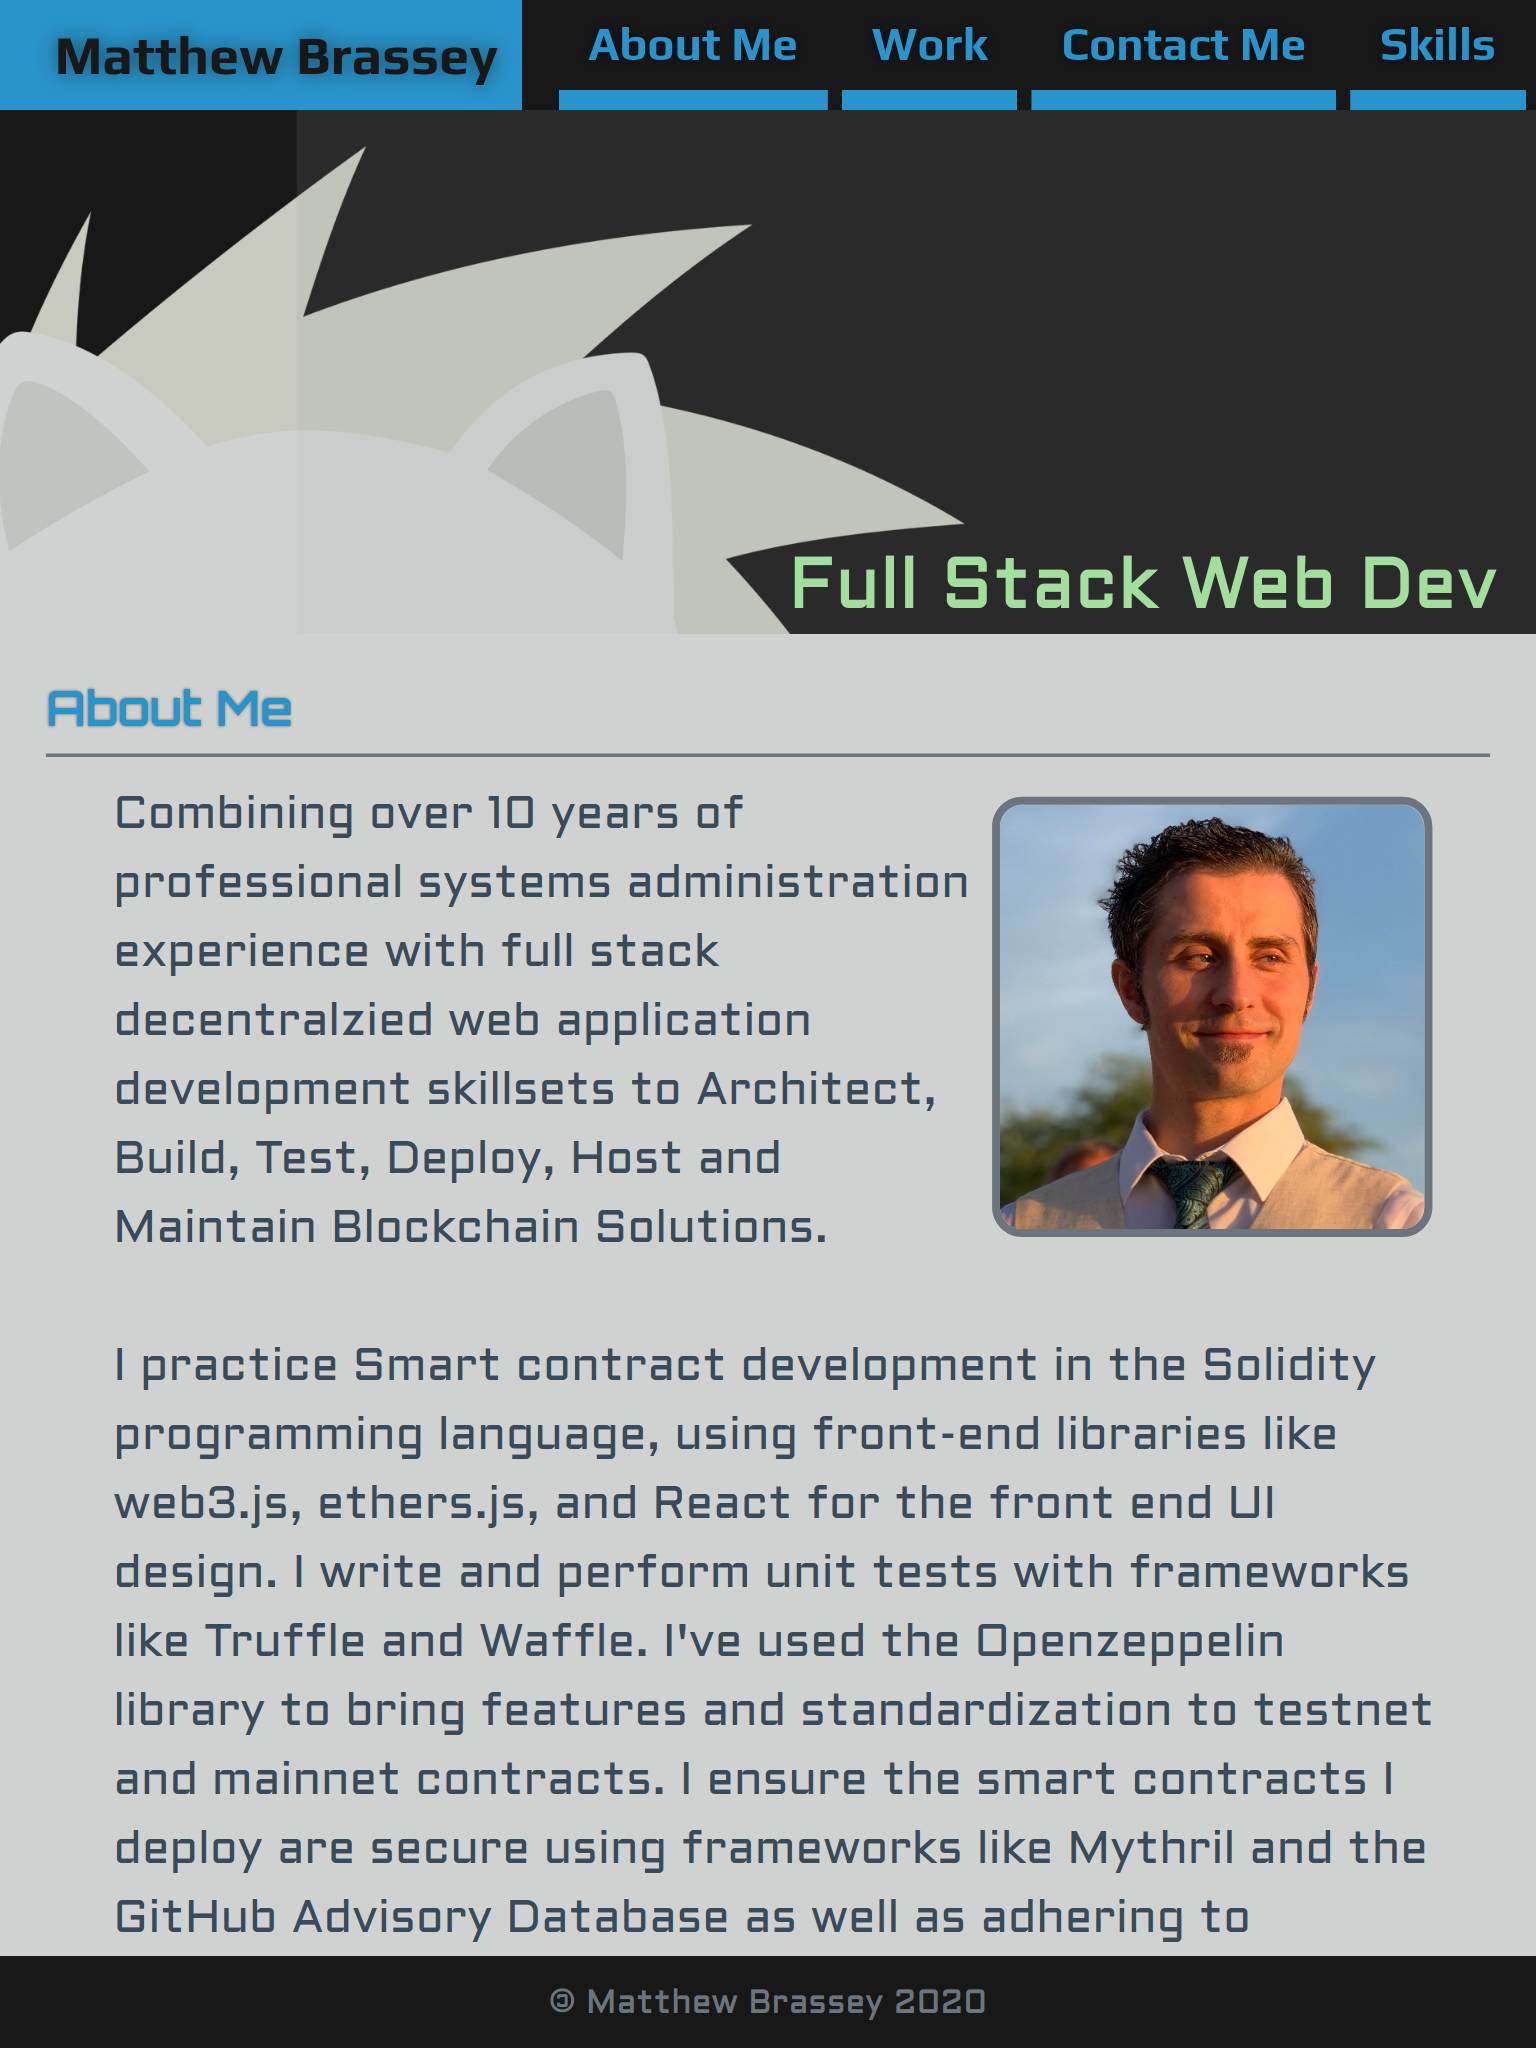
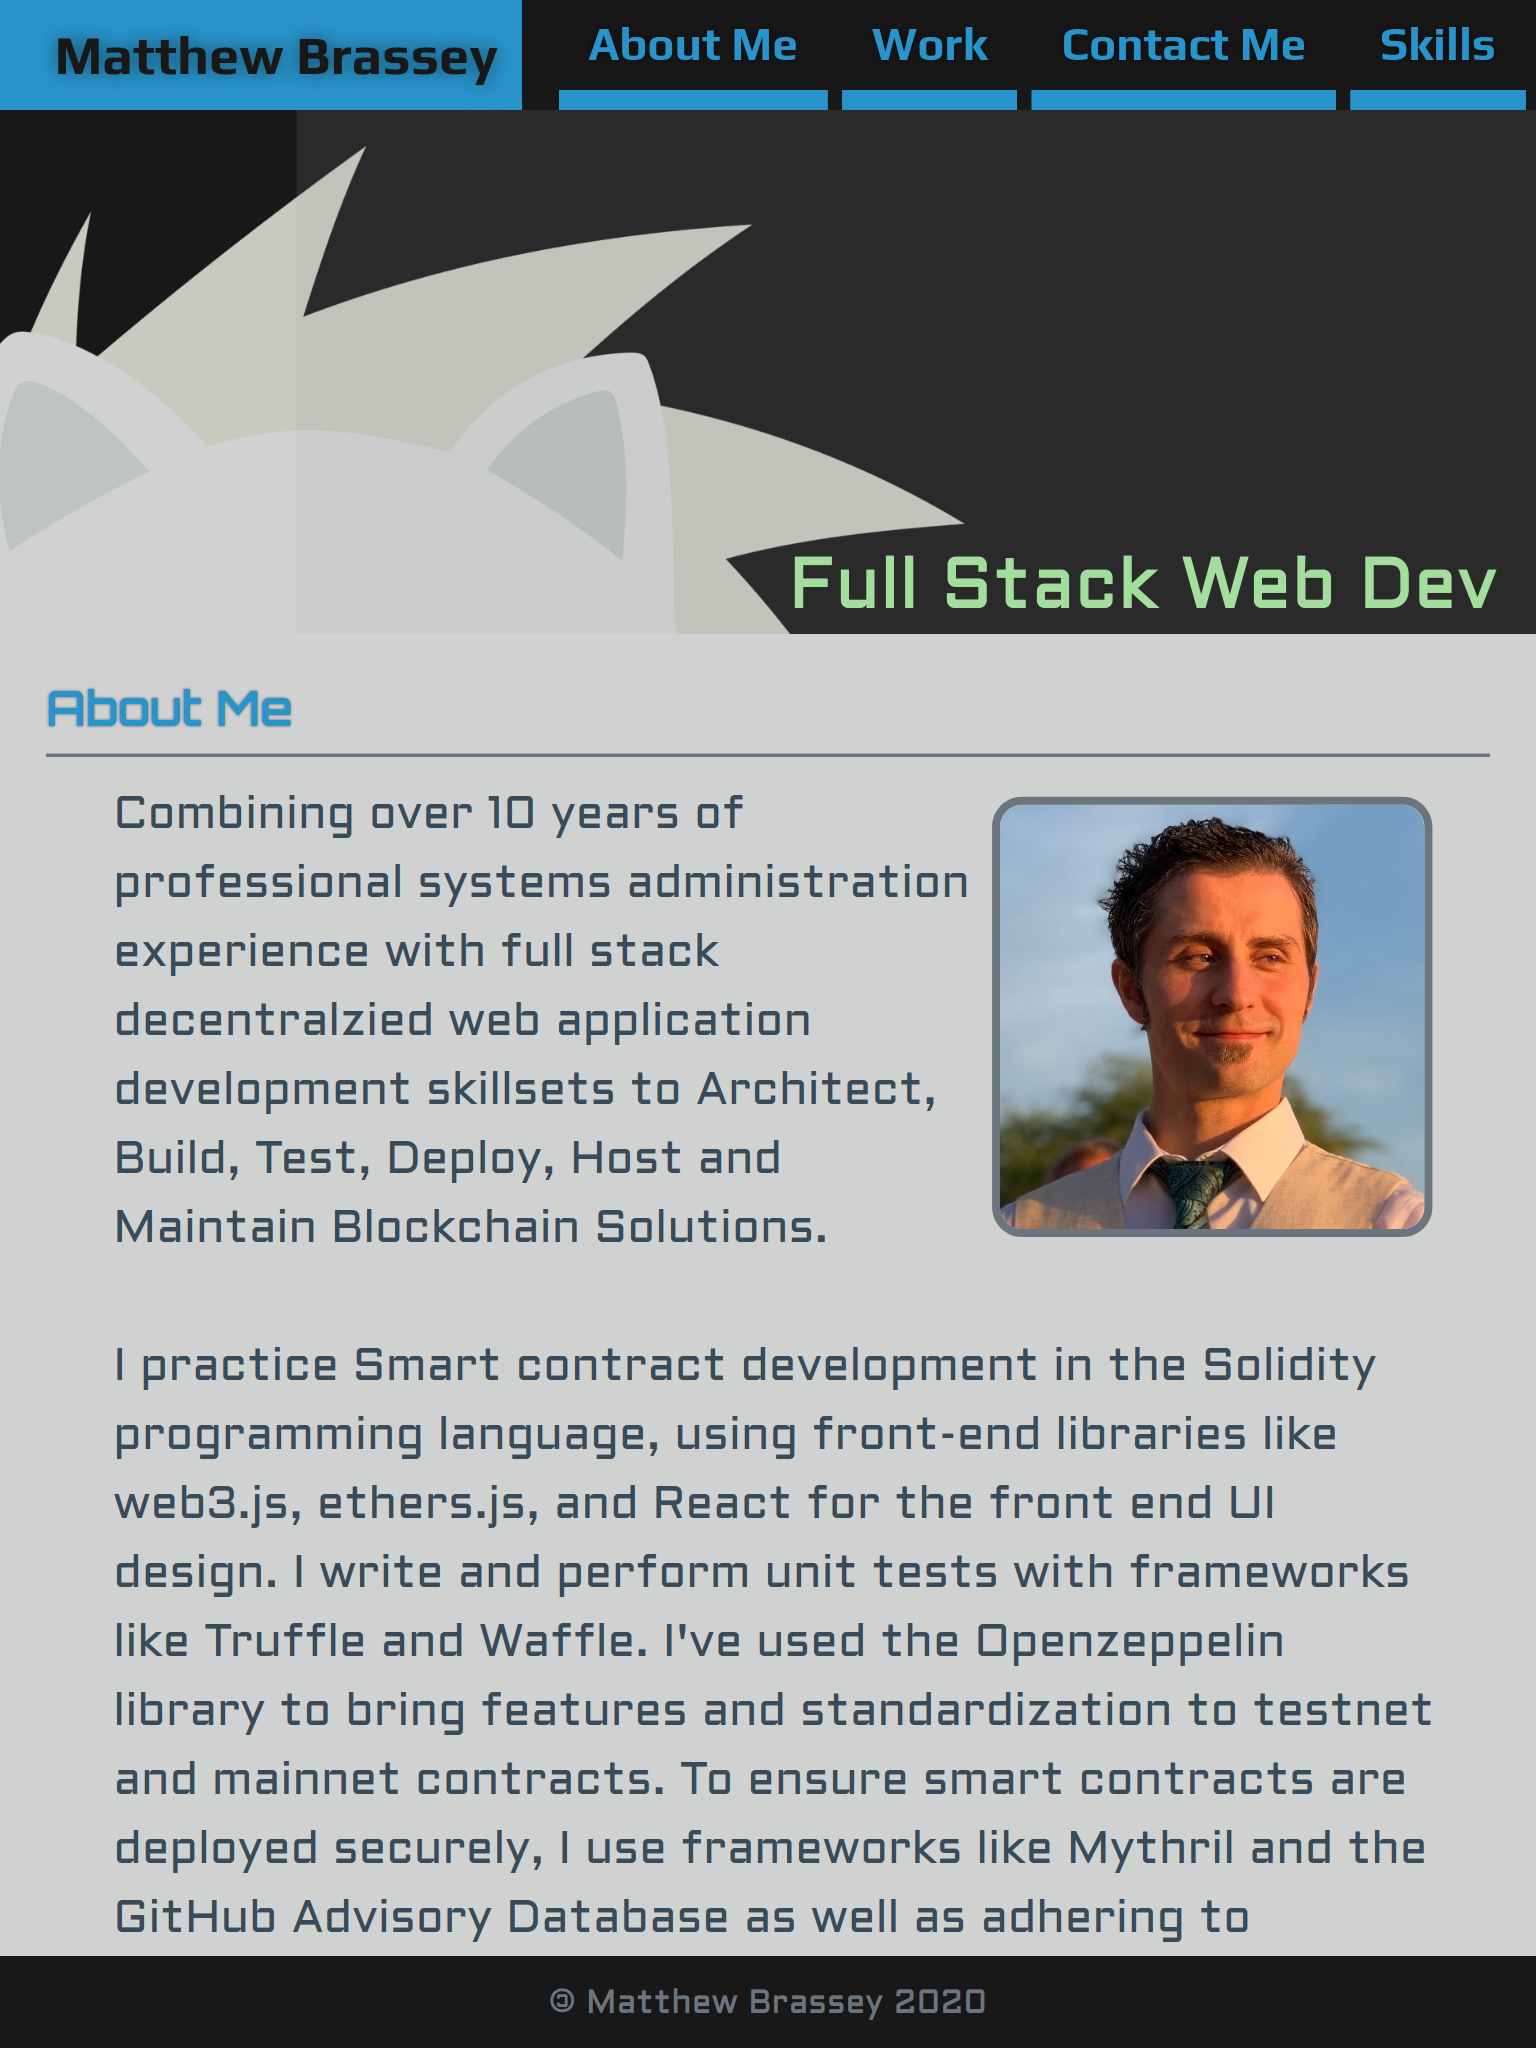
Updated Readme

Changed region(s): [[0.4375, 0.8438, 0.9062, 0.9062], [0.1875, 0.875, 0.3438, 0.9062], [0.375, 0.875, 0.4062, 0.9062]]

diff --git a/index.html b/index.html
@@ -86,7 +86,7 @@
                 <p>
                   <img src="assets/img/Matt.jpg" alt="Profile Picture">
                   Combining over 10 years of professional systems administration experience with full stack decentralzied web application development skillsets to Architect, Build, Test, Deploy, Host and Maintain Blockchain Solutions.
-                  <br /><br />I practice Smart contract development in the Solidity programming language, using front-end libraries like web3.js, ethers.js, and React for the front end UI design. I write and perform unit tests with frameworks like Truffle and Waffle. I've used the Openzeppelin library to bring features and standardization to testnet and mainnet contracts. To ensure smart contracts are deployed securly, I use frameworks like Mythril and the GitHub Advisory Database as well as adhering to Solidity's best practices. I've successfully deployed several smart contracts to the Rinkeby, Ropsten & Kovan Testnets as well as the Mainnet Ethereum Blockchain. I have experience verifying decentralized applications and tokens on Etherscan.io in addition to constructing ABI's to interface with Mainnet contracts.                  
+                  <br /><br />I practice Smart contract development in the Solidity programming language, using front-end libraries like web3.js, ethers.js, and React for the front end UI design. I write and perform unit tests with frameworks like Truffle and Waffle. I've used the Openzeppelin library to bring features and standardization to testnet and mainnet contracts. To ensure smart contracts are deployed securely, I use frameworks like Mythril and the GitHub Advisory Database as well as adhering to Solidity's best practices. I've successfully deployed several smart contracts to the Rinkeby, Ropsten & Kovan Testnets as well as the Mainnet Ethereum Blockchain. I have experience verifying decentralized applications and tokens on Etherscan.io in addition to constructing ABI's to interface with Mainnet contracts.                  
                   <br /><br />I deploy webapps to Heroku and have experience using Github or IPFS in tandem with smart contracts to store application media in a decentralized way.                  
                   <br /><br />Recently, I've been writing smart contracts to interact with various DeFi protocols like Aave, Uniswap, Kyber, and dYdX, to facilitate flash loans. I'm also working on a web3.js based Ethereum Token Trading Bot and a Decentralized Social Network. My current area of study is full stack web development, distributed computing, Open Finance / Money Legos, Hyperledger & Corda.
                 </p>
